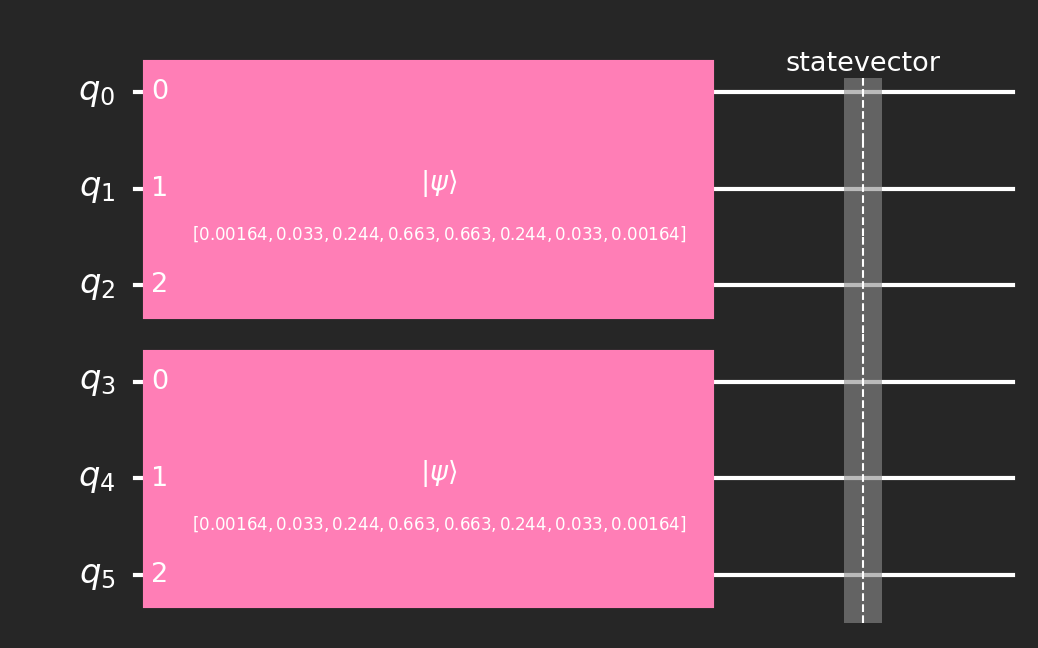
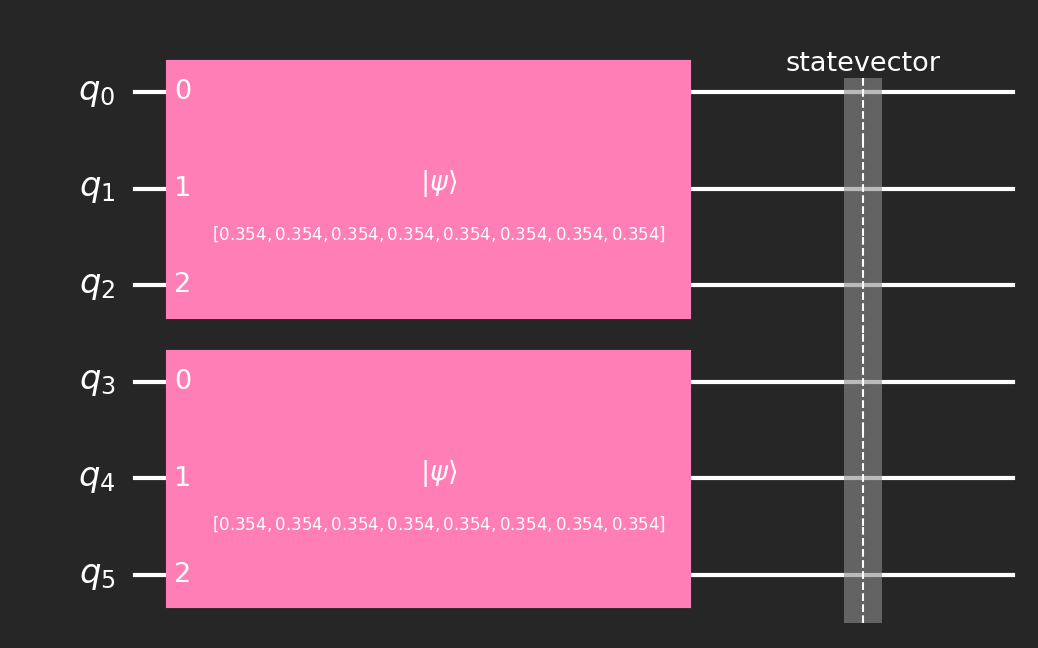
Implement sandboxed gaussian superposition, add gaussian superposition to regev algorithm

Changed region(s): [[0.1233, 0.5247, 0.7091, 0.9568], [0.1233, 0.0926, 0.7091, 0.4938]]

diff --git a/implementations/regev.py b/implementations/regev.py
@@ -15,6 +15,8 @@ from utils.is_prime import is_prime
 from utils.convert_measurement import convert_measurement
 from utils.convert_to_matrix_row import convert_to_matrix_row
 from utils.convert_milliseconds import convert_milliseconds
+from utils.calculate_R import calculate_R
+from utils.gaussian_amplitudes import gaussian_amplitudes
 
 import logging
 import math
@@ -52,7 +54,7 @@ class Regev(ABC):
         self.vectors = []
 
 
-    def draw_quantum_circuit(self, Ns, d_qd_list, decompose=False):
+    def draw_quantum_circuit(self, Ns, d_qd_list, decompose=False, gauss_init=False):
 
         for i in range(len(d_qd_list)):
             d_ceil_bool = d_qd_list[i][0]
@@ -72,15 +74,19 @@ class Regev(ABC):
                 else:
                     qd_mode = "floor"
 
-                circuit = self.construct_circuit(N, d_ceil_bool, qd_ceil_bool)
+                circuit = self.construct_circuit(N, d_ceil_bool, qd_ceil_bool, gauss_init=gauss_init)
 
                 if decompose:
-                    circuit.decompose().draw(output='mpl', filename=f'images/sandbox/{d_mode}_{qd_mode}/N_{N}.png', style='iqp-dark', fold=-1)
+                    filename = f'images/gauss/decomposed/{d_mode}_{qd_mode}/N_{N}.png'
+                    circuit.decompose().draw(output='mpl', filename=filename, style='iqp-dark', fold=-1)
+                    print(f"Created file: {filename}")
                 else:
-                    circuit.draw(output='mpl', filename=f'images/sandbox/{d_mode}_{qd_mode}/N_{N}.png', style='iqp-dark', fold=-1)
+                    filename = f'images/gauss/general/{d_mode}_{qd_mode}/N_{N}.png'
+                    circuit.draw(output='mpl', filename=filename, style='iqp-dark', fold=-1)
+                    print(f"Created file: {filename}")
 
 
-    def run_all_algorithm(self, Ns, d_qd_list, number_of_combinations, type_of_test, find_pq=False):
+    def run_all_algorithm(self, Ns, d_qd_list, number_of_combinations, type_of_test, find_pq=False, gauss_init=False):
         for i in range(len(d_qd_list)):
             d_ceil_bool = d_qd_list[i][0]
             qd_ceil_bool = d_qd_list[i][1]
@@ -102,7 +108,7 @@ class Regev(ABC):
 
                 print(f"\nN: {N}")
                 start = time.time()
-                quantum_result = self.get_vectors(N, d_ceil=d_ceil_bool, qd_ceil=qd_ceil_bool, semi_classical=False)
+                quantum_result = self.get_vectors(N, d_ceil=d_ceil_bool, qd_ceil=qd_ceil_bool, semi_classical=False, gauss_init=gauss_init)
                 classic_result = self.run_classical_part(number_of_combinations, N, quantum_result.n, quantum_result.number_of_primes, quantum_result.exp_register_width, quantum_result.squared_primes, quantum_result.output_data, type_of_test, find_pq)
                 end = time.time()
                 exec_time = (end - start) * 1000
@@ -204,7 +210,11 @@ class Regev(ABC):
             if T_tmp % N == 1 and v_len_tmp < T:
                 T = v_len_tmp
 
-        R = math.ceil(6 * T * math.sqrt((d + 5) * (2 * d) + 4) * (d / 2) * (2 ** ((qd + 1) / (d + 4) + d + 2)))
+        # Stara wersja R
+        # R = math.ceil(6 * T * math.sqrt((d + 5) * (2 * d) + 4) * (d / 2) * (2 ** ((qd + 1) / (d + 4) + d + 2)))
+        # Nowa wersja R
+        R = math.ceil(6 * T * math.sqrt((d + 5) * (2 * d + 4) * (d / 2)) * (2 ** ((n + 1) / (d + 4) + d + 2)))
+
         t = 1 + math.ceil(math.log(math.sqrt(d) * R, 2))
         delta = math.sqrt(d / 2) / R
         delta_inv = math.ceil(R / math.sqrt(d / 2))
@@ -283,7 +293,7 @@ class Regev(ABC):
         return classic_result
 
 
-    def run_quantum_part_data_collection(self, Ns, d_qd_list):
+    def run_quantum_part_data_collection(self, Ns, d_qd_list, gauss_init):
 
         for i in range(len(d_qd_list)):
             d_ceil_bool = d_qd_list[i][0]
@@ -295,7 +305,7 @@ class Regev(ABC):
                 print(f"\nN: {N}")
 
                 start = time.time()
-                result = self.get_vectors(N, d_ceil=d_ceil_bool, qd_ceil=qd_ceil_bool, semi_classical=False)
+                result = self.get_vectors(N, d_ceil=d_ceil_bool, qd_ceil=qd_ceil_bool, semi_classical=False, gauss_init=gauss_init)
                 end = time.time()
                 exec_time = (end - start) * (10 ** 3)
                 converted_time = convert_milliseconds(exec_time)
@@ -559,14 +569,14 @@ class Regev(ABC):
                         self.get_factors(vector, a_root, N)
 
 
-    def get_vectors(self, N: int, d_ceil=False, qd_ceil=False, semi_classical=False) -> 'RegevResult':
+    def get_vectors(self, N: int, d_ceil=False, qd_ceil=False, semi_classical=False, gauss_init=False) -> 'RegevResult':
 
         print("Running quantum part")
 
         start = time.time()
         self._validate_input(N)
 
-        circuit = self.construct_circuit(N, d_ceil, qd_ceil, semi_classical, measurement=True)
+        circuit = self.construct_circuit(N, d_ceil, qd_ceil, semi_classical, measurement=True, gauss_init=gauss_init)
         # aersim = AerSimulator(method="extended_stabilizer")
         aersim = AerSimulator()
 
@@ -610,7 +620,7 @@ class Regev(ABC):
         return int(measurement, base=2)
 
 
-    def construct_circuit(self, N: int, d_ceil, qd_ceil, semi_classical: bool = False, measurement: bool = True):
+    def construct_circuit(self, N: int, d_ceil, qd_ceil, semi_classical: bool = False, measurement: bool = True, gauss_init: bool = False):
         self._validate_input(N)
 
         n = N.bit_length()
@@ -633,7 +643,7 @@ class Regev(ABC):
         self.result.exp_register_width = qd
 
 
-        return self._construct_circuit(N, n, measurement, d, qd)
+        return self._construct_circuit(N, n, measurement, d, qd, gauss_init)
 
 
     @staticmethod
@@ -660,11 +670,12 @@ class Regev(ABC):
             raise ValueError(f'The input N needs to be an odd integer greater than 1. Provided N = {N}.')
 
 
-    def _construct_circuit(self, N: int, n: int, measurement: bool, d: int, qd: int) -> QuantumCircuit:
+    def _construct_circuit(self, N: int, n: int, measurement: bool, d: int, qd: int, gauss_init: bool) -> QuantumCircuit:
 
-
+        # Prepare params
         x_qregs_spec = dict()
         a = self.generate_a(d, N)
+
 
         # Input registers, each has qd-qubits
         for i in range(d):
@@ -678,9 +689,22 @@ class Regev(ABC):
         aux_qreg = AncillaRegister(self._get_aux_register_size(n), 'aux')
         circuit = QuantumCircuit(*x_qregs, y_qreg, aux_qreg, name=self._get_name(N, d))
 
-        # Initializing input register's qubits superposition
-        for qreg in x_qregs:
-            circuit.h(qreg)
+        if gauss_init:
+            # Initializing input register's qubits gaussian superposition
+            mu = 0
+            R = calculate_R(d, qd, N, n, a)
+            sigma = R/math.sqrt(2*math.pi)
+            amps = gaussian_amplitudes(qd, mu=mu, sigma=sigma)
+
+            for qreg in x_qregs:
+                # circuit.initialize(amps, [j for j in range(st, en)])
+                circuit.initialize(amps, qreg)
+            pass
+
+        else:
+            # Initializing input register's qubits uniform superposition
+            for qreg in x_qregs:
+                circuit.h(qreg)
 
         circuit.x(y_qreg[0])
 

diff --git a/regev_all.py b/regev_all.py
@@ -18,7 +18,7 @@ regev = Regev(shots_num)
 Ns = [21]
 
 # d and qd parameters combination (for running 'all parts', 'quantum part', 'classical part' and 'drawing quantum circuit')
-d_qd_list = [[False, True], [False, False]]
+d_qd_list = [[True, True], [False, False]]
 
 # Number of combinations of picking up output vectors to create lattice (for running 'all parts', 'classical part')
 number_of_combinations = 100
@@ -34,6 +34,10 @@ find_pq = True
 
 # Parameter denoting if a decomposed version of quantum circuit should be drawn (drawing quantum circuit)
 decompose = False
+
+# Parameter initiating initial superposition in gaussian distribution
+gauss_init = True
+
 
 while True:
     print("========== REGEV'S ALGORITHM ==========\n")
@@ -56,13 +60,13 @@ while True:
     match choice:
         case 1:
             print("------- Running all algorithm -------")
-            regev.run_all_algorithm(Ns, d_qd_list, number_of_combinations, type_of_test, find_pq)
+            regev.run_all_algorithm(Ns, d_qd_list, number_of_combinations, type_of_test, find_pq, gauss_init)
             print("Finished running all algorithm. The results are saved in output_data/regev/all_parts folder")
             continue
 
         case 2:
             print("------- Running quantum part -------")
-            regev.run_quantum_part_data_collection(Ns, d_qd_list)
+            regev.run_quantum_part_data_collection(Ns, d_qd_list, gauss_init)
             print("Finished running quantum part. The results are saved in output_data/regev/quantum_part folder")
             continue
 
@@ -74,8 +78,8 @@ while True:
 
         case 4:
             print("------- Drawing quantum circuit -------")
-            regev.draw_quantum_circuit(Ns, d_qd_list, decompose)
-            print("Finished running drawing quantum circuit. The results are saved in images/general and/or images/decomposed folder")
+            regev.draw_quantum_circuit(Ns, d_qd_list, decompose, gauss_init)
+            print("Finished running drawing quantum circuit")
             continue
 
         case 5:

diff --git a/Gauss_dist_tests/fixing_state_vector_qiskit.py b/Gauss_dist_tests/fixing_state_vector_qiskit.py
@@ -1,3 +1,4 @@
+from operator import truediv
 from typing import Union, Tuple, Optional
 
 import numpy as np
@@ -59,7 +60,7 @@ def gaussian_amplitudes(n_qubits: int, mu=None, sigma=None):
     if mu is None:
         mu = (dim - 1) / 2.0                     # środek
     if sigma is None:
-        sigma = dim / 8.0                        # domyślna "szerokość" (dobierz wg potrzeb)
+        sigma = dim / 8.0                        # domyślna "szerokość"
 
     # amplitudy proporcjonalne do e^{-(x-mu)^2 / (2*sigma^2)}
     amp = np.exp(-0.5 * ((x - mu) / sigma) ** 2)
@@ -71,13 +72,63 @@ def gaussian_amplitudes(n_qubits: int, mu=None, sigma=None):
     amp = amp / norm
     return amp.astype(complex)
 
-# n = 10
-mu = None
-sigma = None
 
+# PARAMS
+N = 21
+a = [4, 25, 121]
 d = 2
 qd = 3
 n = d*qd
+mu = 0
+sigma = None
+
+# n = N.bit_length()
+print(f"n: {n}")
+d_ceil = True
+qd_ceil = True
+a_root = []
+
+start = time.time()
+
+for a_ in a:
+    a_root.append(int(math.sqrt(a_)))
+
+
+
+# if d_ceil:
+#     d = math.ceil(math.sqrt(n))
+# else:
+#     d = math.floor(math.sqrt(n))
+#
+# if qd_ceil:
+#     qd = math.ceil(n / d) + d
+# else:
+#     qd = math.floor(n / d) + d
+
+
+m = math.ceil(n / d) + 2
+powers = []
+for i in range(m):
+    powers.append(i)
+
+T = N
+
+for p in itertools.product(powers, repeat=d):
+    if p == (0,) * d:
+        continue
+    T_tmp = 1
+    v_len_tmp = 1
+    for i in range(d):
+        T_tmp *= pow(a_root[i], p[i], N)
+        v_len_tmp += pow(p[i], 2)
+    v_len_tmp = math.ceil(math.sqrt(v_len_tmp))
+    if T_tmp % N == 1 and v_len_tmp < T:
+        T = v_len_tmp
+
+R = math.ceil(6 * T * math.sqrt((d + 5) * (2 * d + 4) * (d / 2)) * (2 ** ((n + 1) / (d + 4) + d + 2)))
+print(f"R: {R}")
+sigma = R/math.sqrt(2*math.pi)
+print(f"sigma: {sigma}")
 
 # 1) amplitudy Gaussa
 amps = gaussian_amplitudes(qd, mu=mu, sigma=sigma)

diff --git a/utils/calculate_R.py b/utils/calculate_R.py
@@ -1,0 +1,33 @@
+
+import math
+import itertools
+
+def calculate_R(d, qd, N, n, a):
+
+    a_root = []
+
+    for a_ in a:
+        a_root.append(int(math.sqrt(a_)))
+    m = math.ceil(n / d) + 2
+    powers = []
+    for i in range(m):
+        powers.append(i)
+
+    T = N
+
+    for p in itertools.product(powers, repeat=d):
+        if p == (0,) * d:
+            continue
+        T_tmp = 1
+        v_len_tmp = 1
+        for i in range(d):
+            T_tmp *= pow(a_root[i], p[i], N)
+            v_len_tmp += pow(p[i], 2)
+        v_len_tmp = math.ceil(math.sqrt(v_len_tmp))
+        if T_tmp % N == 1 and v_len_tmp < T:
+            T = v_len_tmp
+
+    R = math.ceil(6 * T * math.sqrt((d + 5) * (2 * d + 4) * (d / 2)) * (2 ** ((n + 1) / (d + 4) + d + 2)))
+
+    return R
+

diff --git a/utils/gaussian_amplitudes.py b/utils/gaussian_amplitudes.py
@@ -1,0 +1,20 @@
+import numpy as np
+
+def gaussian_amplitudes(n_qubits: int, mu=None, sigma=None):
+    """Zwraca znormalizowane amplitudy Gaussa po indeksach 0..2^n-1."""
+    dim = 2 ** n_qubits
+    x = np.arange(dim, dtype=float)
+    if mu is None:
+        mu = (dim - 1) / 2.0                     # środek
+    if sigma is None:
+        sigma = dim / 8.0                        # domyślna "szerokość"
+
+    # amplitudy proporcjonalne do e^{-(x-mu)^2 / (2*sigma^2)}
+    amp = np.exp(-0.5 * ((x - mu) / sigma) ** 2)
+
+    # normalizacja do sum(|amp|^2) = 1
+    norm = np.linalg.norm(amp)
+    if norm == 0:
+        raise ValueError("Zero vector: dobierz inne mu/sigma.")
+    amp = amp / norm
+    return amp.astype(complex)
